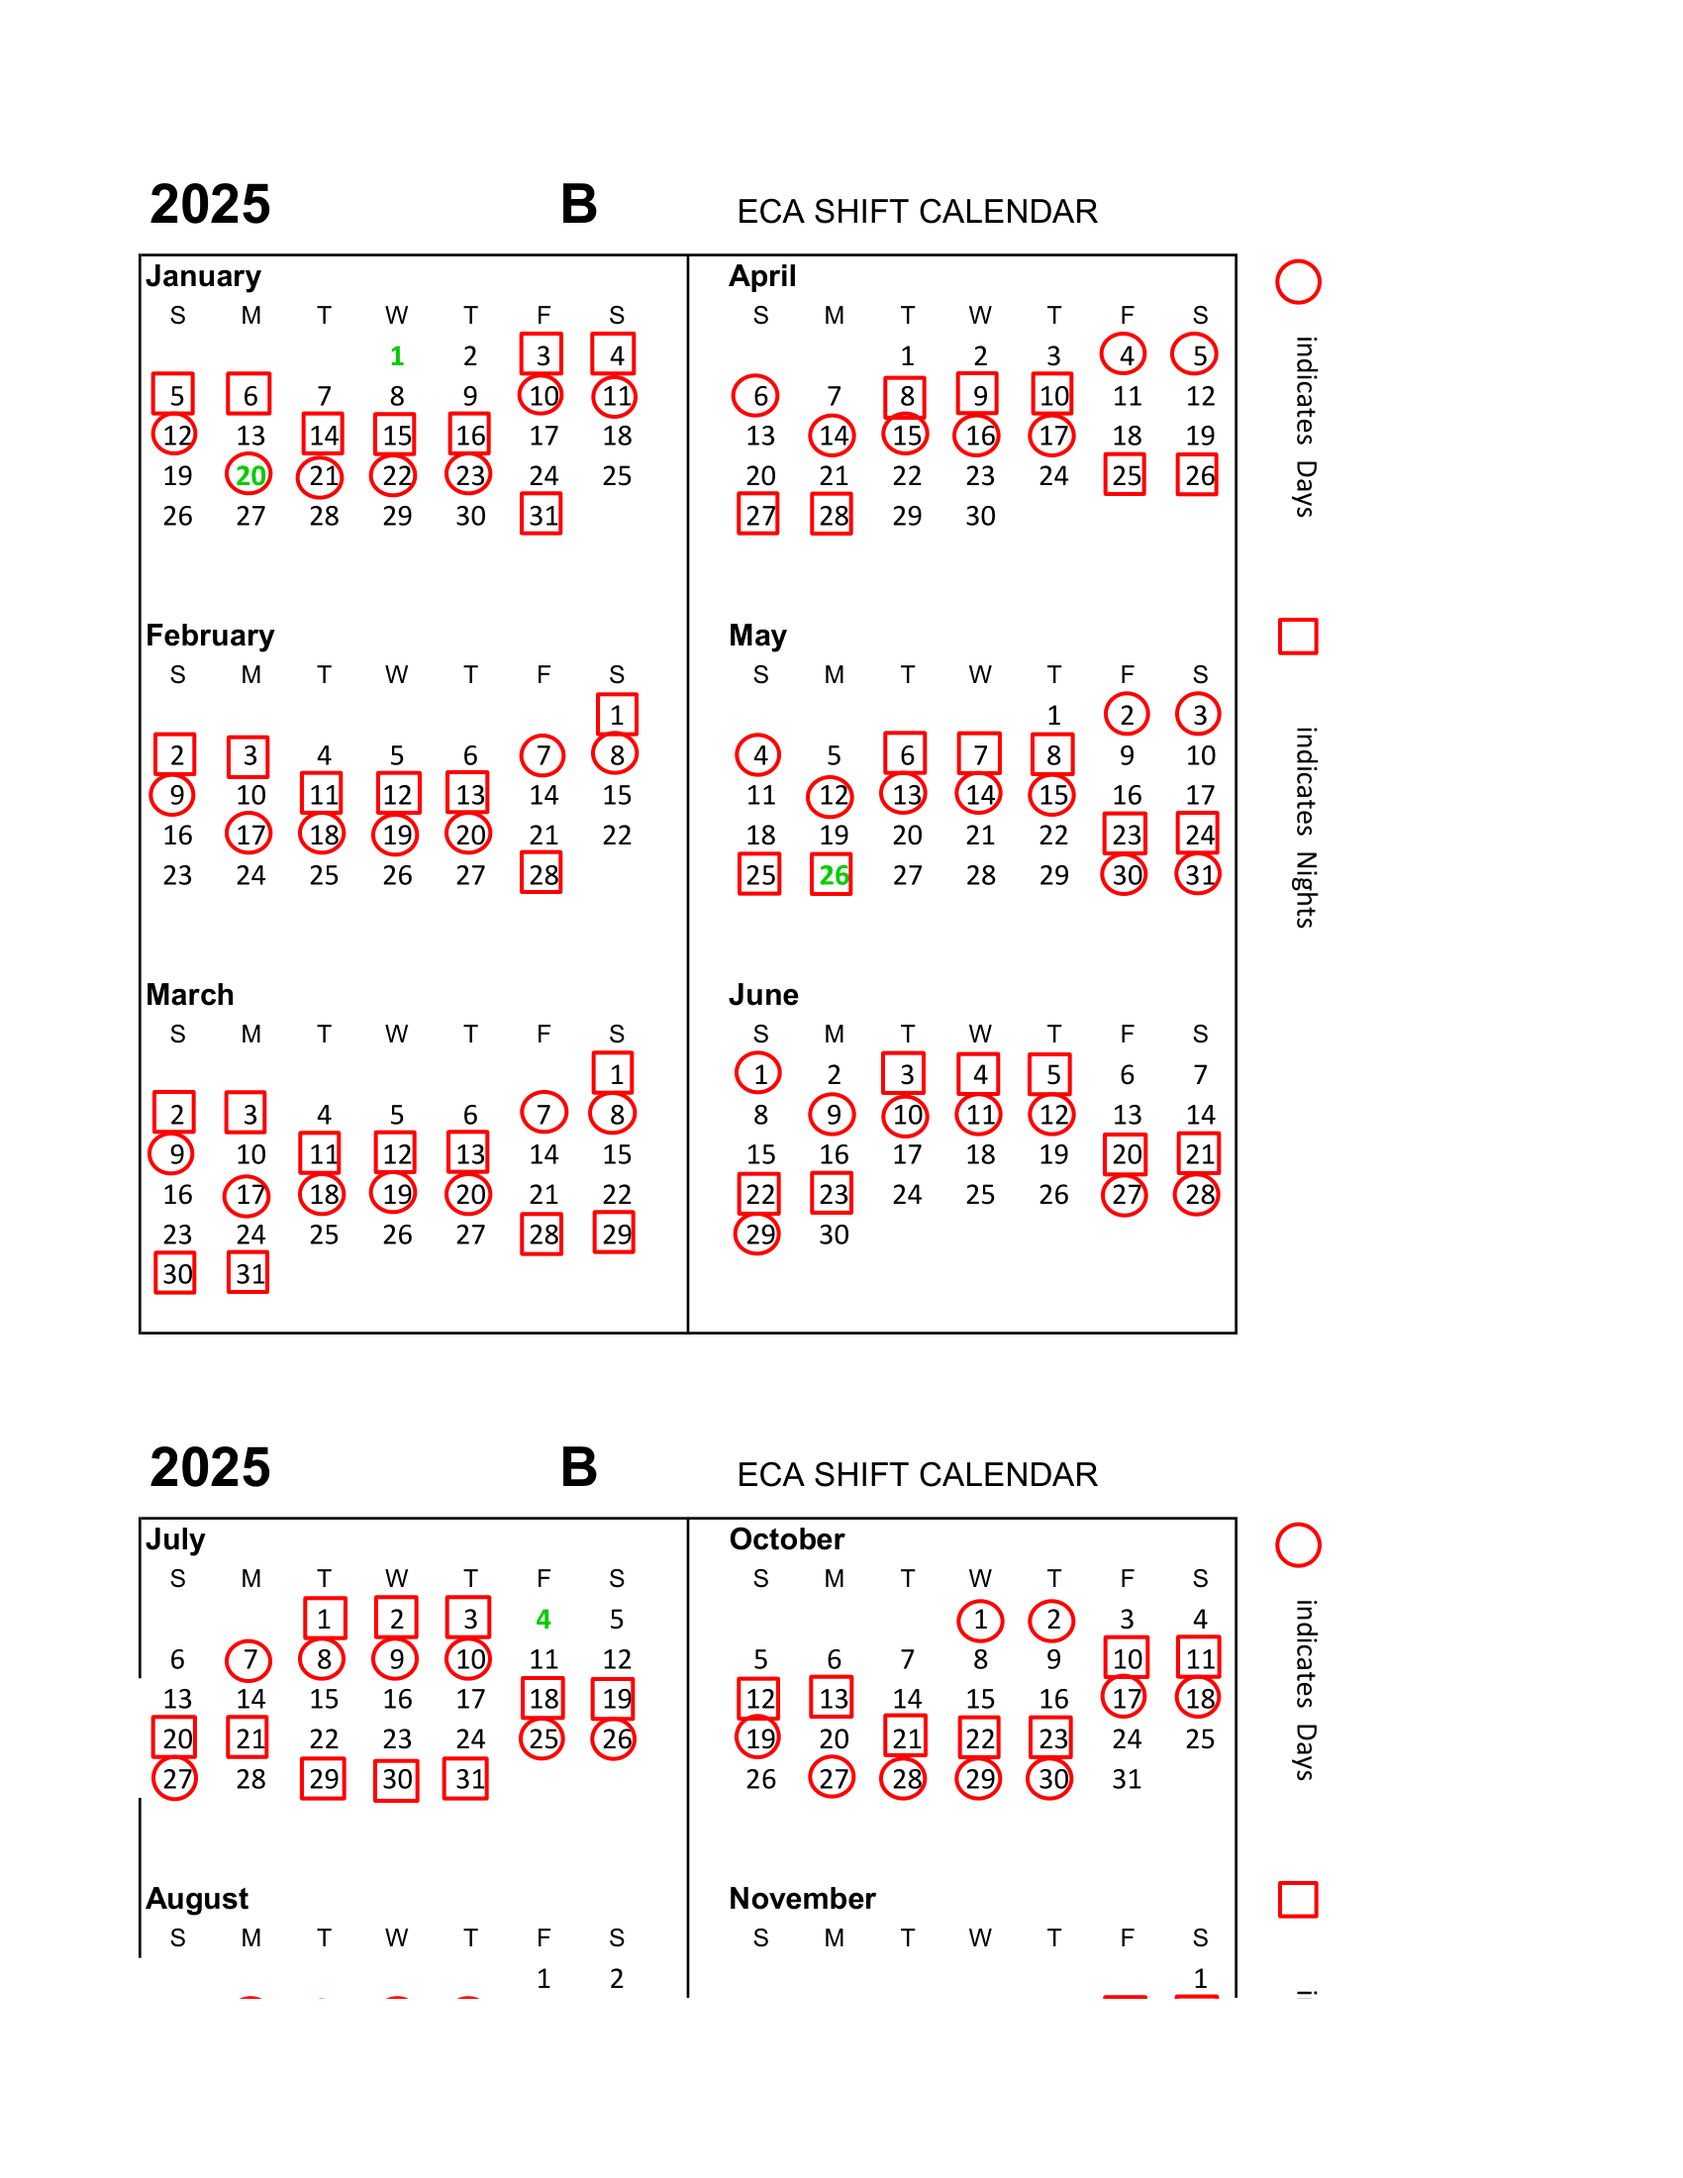
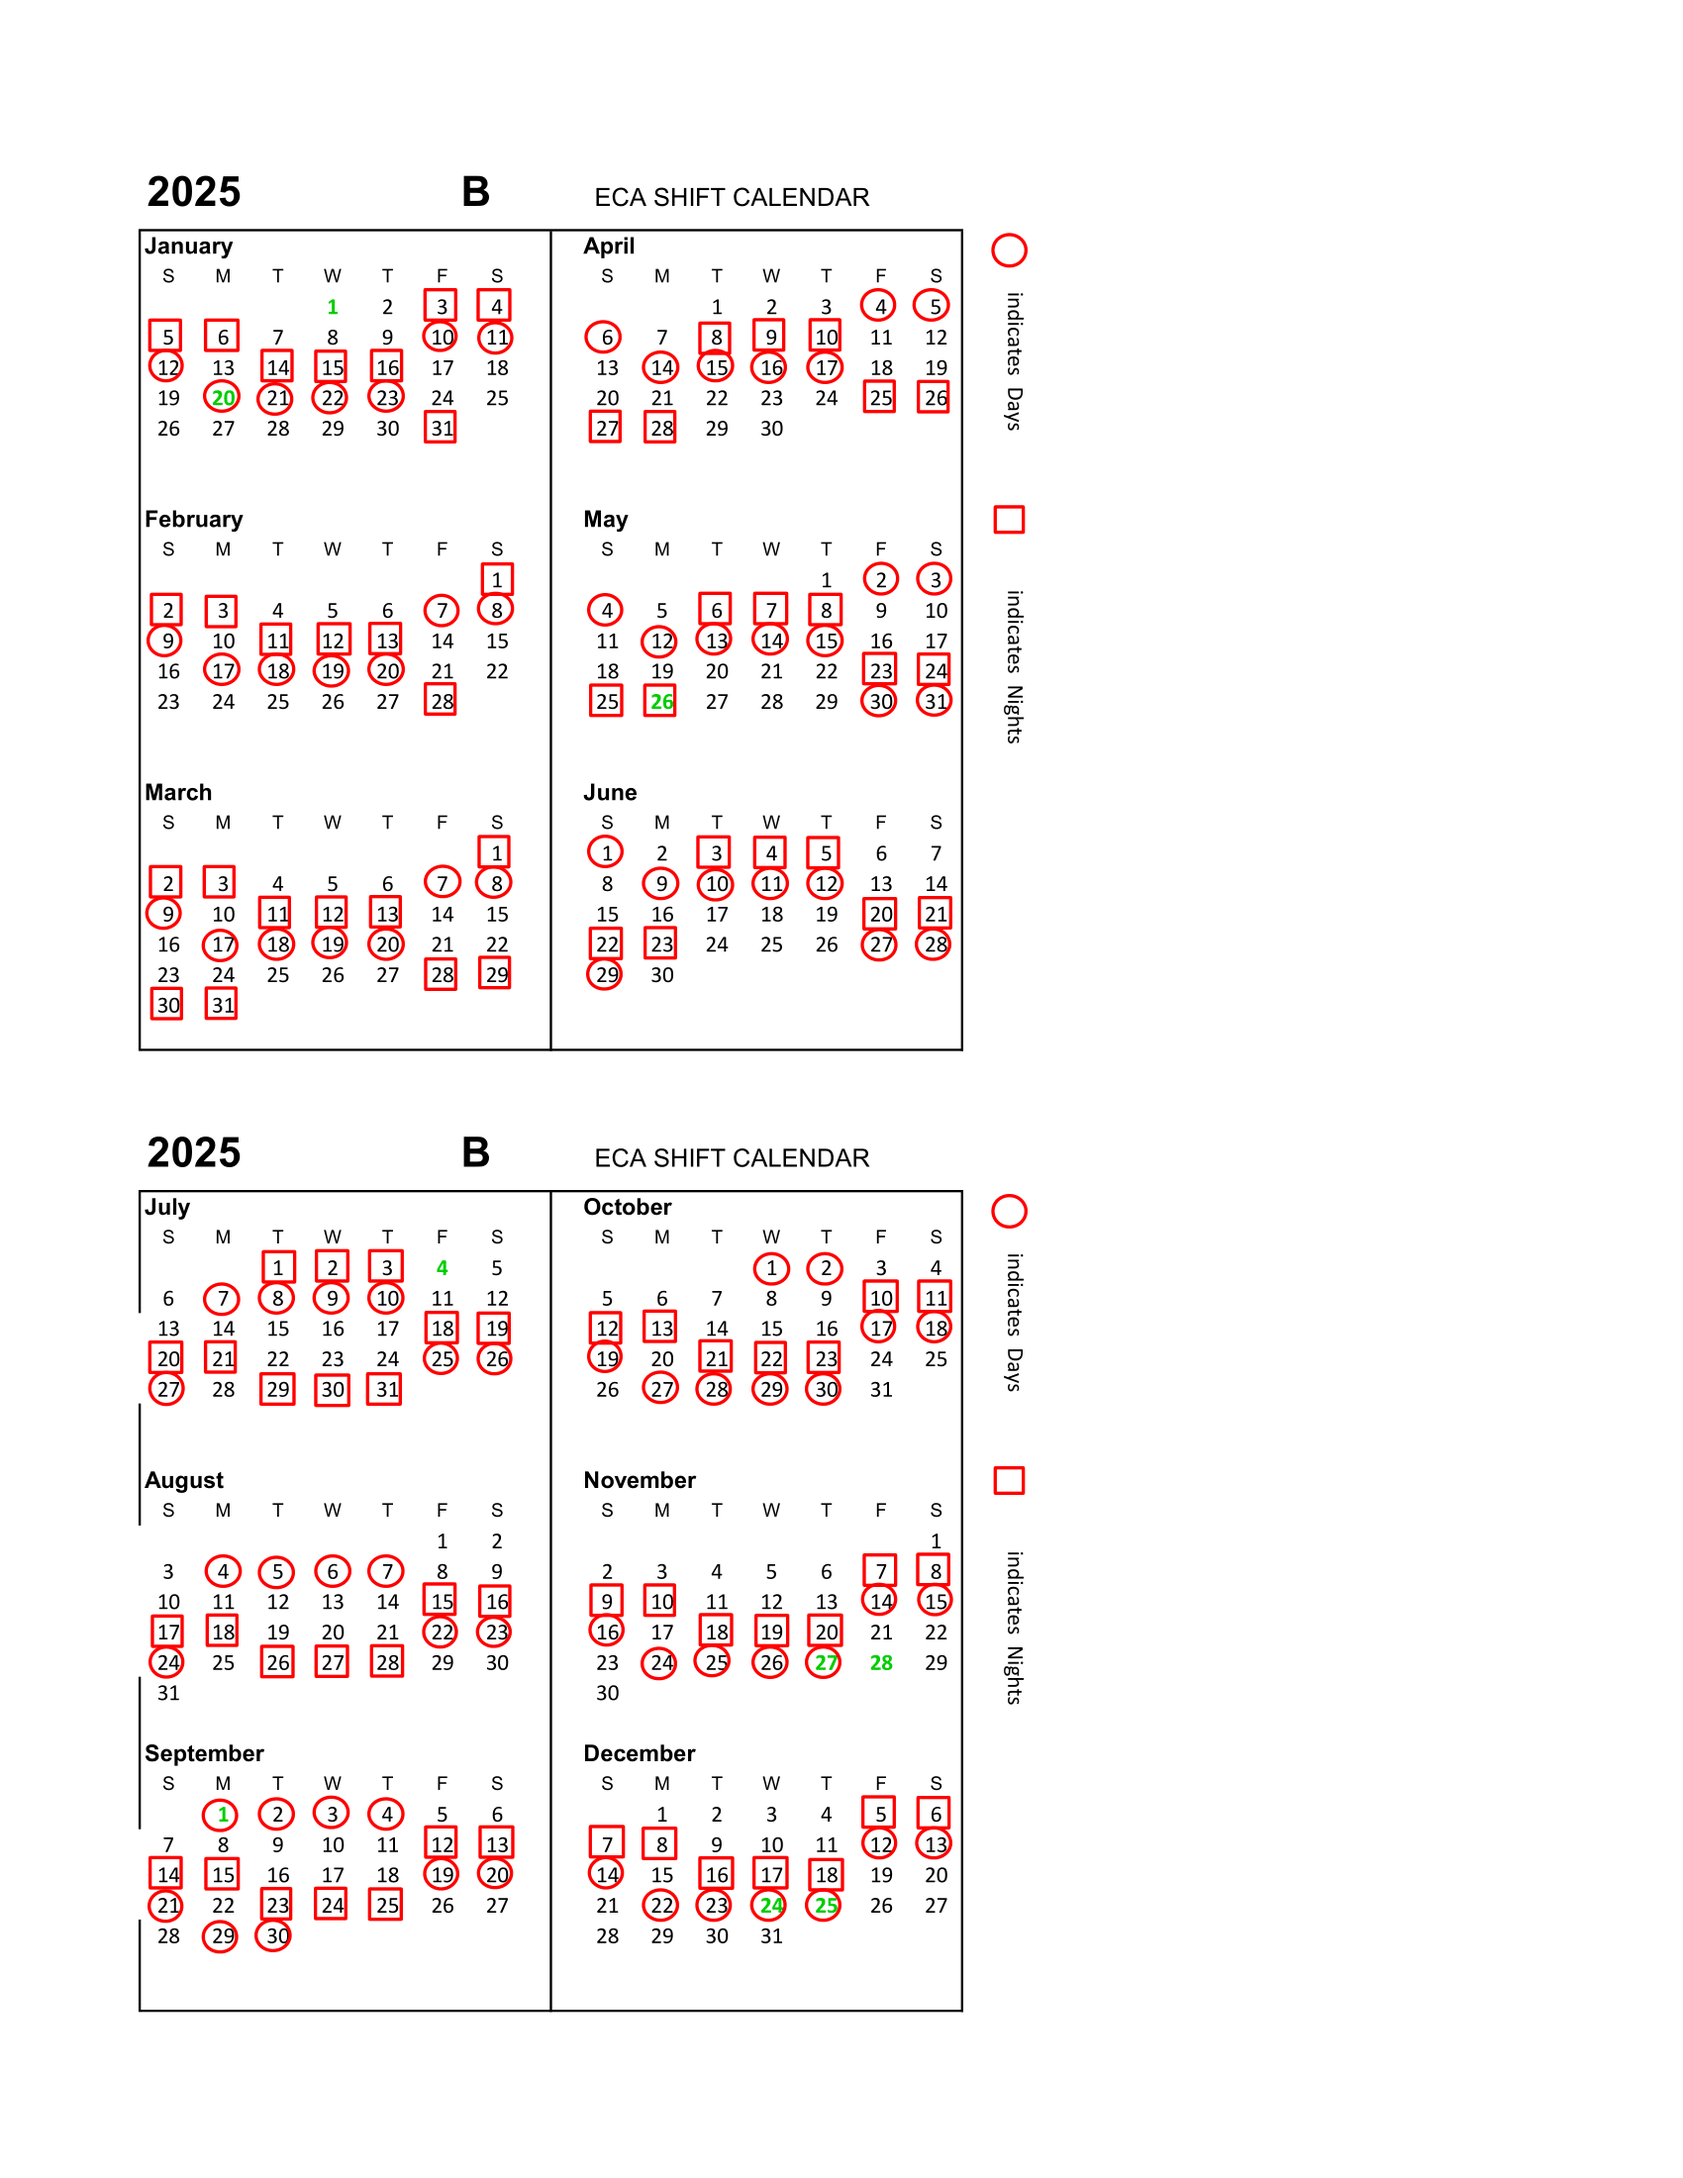
ECA 2025 crew images condensed

Changed region(s): [[0.0624, 0.0618, 0.7794, 0.8964], [0.7482, 0.2782, 0.7794, 0.3091], [0.3118, 0.8964, 0.3429, 0.9273]]

diff --git a/src/components/ecaCrewCalendar.js b/src/components/ecaCrewCalendar.js
@@ -38,13 +38,13 @@ const ECACrewCalendar = () => {
                         return (<><img src={require('../calendarImages/2025/ecaa-1.png')}/></>)
                     }
                     case "B" : {
-                        return (<><img src={require('../calendarImages/2025/ecab-1.png')}/><img src={require('../calendarImages/2025/ecab-2.png')}/></>)
+                        return (<><img src={require('../calendarImages/2025/ecab-1.png')}/></>)
                     }
                     case "C" : {
-                        return (<><img src={require('../calendarImages/2025/ecac-1.png')}/><img src={require('../calendarImages/2025/ecac-2.png')}/></>)
+                        return (<><img src={require('../calendarImages/2025/ecac-1.png')}/></>)
                     }
                     case "D" : {
-                        return (<><img src={require('../calendarImages/2025/ecad-1.png')}/><img src={require('../calendarImages/2025/ecad-2.png')}/></>)
+                        return (<><img src={require('../calendarImages/2025/ecad-1.png')}/></>)
                     }
                     default: {
                     }
